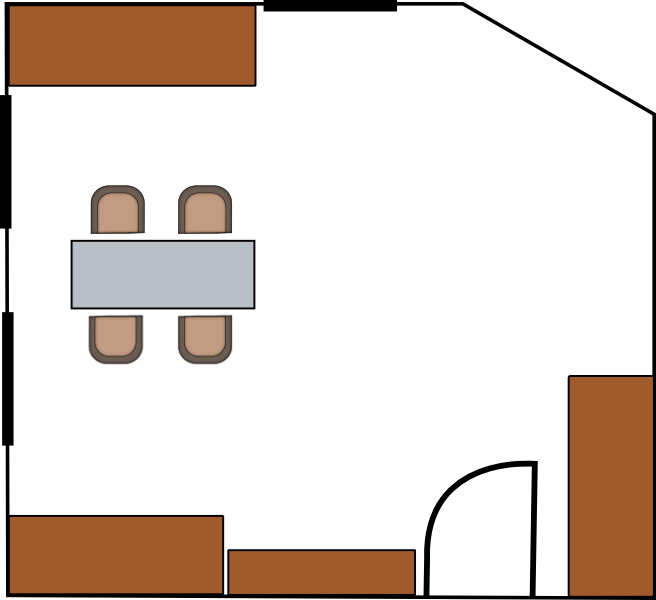
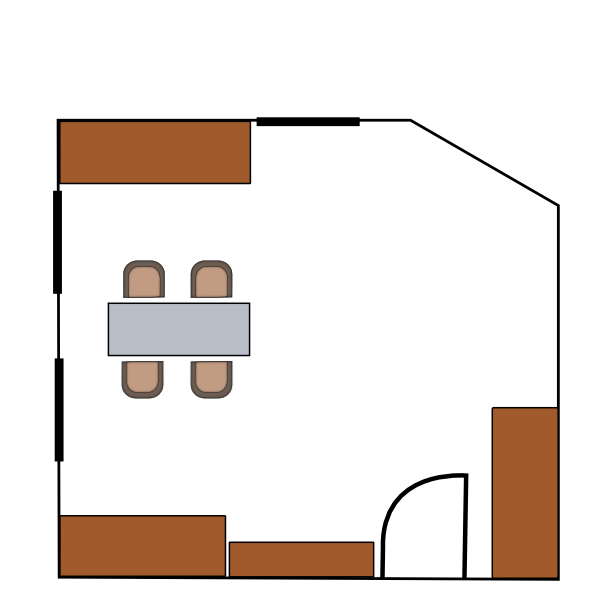
added image for room

diff --git a/src/widgets/RoomWidget.cc b/src/widgets/RoomWidget.cc
@@ -22,7 +22,7 @@ namespace ipn
 
         m_sceneRoot = m_scene->createItemGroup(QList<QGraphicsItem*>());
 
-        m_background = m_scene->addPixmap(QPixmap(":/img/backgrounds/map.png"));
+        m_background = m_scene->addPixmap(QPixmap(":/assets/images/room.png"));
         m_background->setTransformationMode(Qt::SmoothTransformation);
         m_sceneRoot->addToGroup(m_background);
 

diff --git a/src/apps/NumberPickerApp.cc b/src/apps/NumberPickerApp.cc
@@ -18,7 +18,6 @@ namespace ipn
         m_back->setColor(BackgroundWidget::BG_GRAY);
 
         m_titleBar = new TitleBarWidget(this);
-        m_titleBar->move(0, 0);
         m_titleBar->setTitle("Width");
         m_titleBar->addButton(TitleBarWidget::BUTTON_BACK);
         m_titleBar->addButton(TitleBarWidget::BUTTON_DONE);
